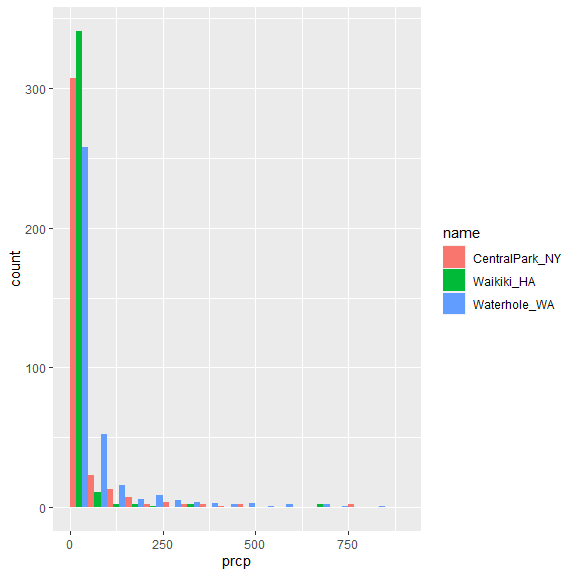
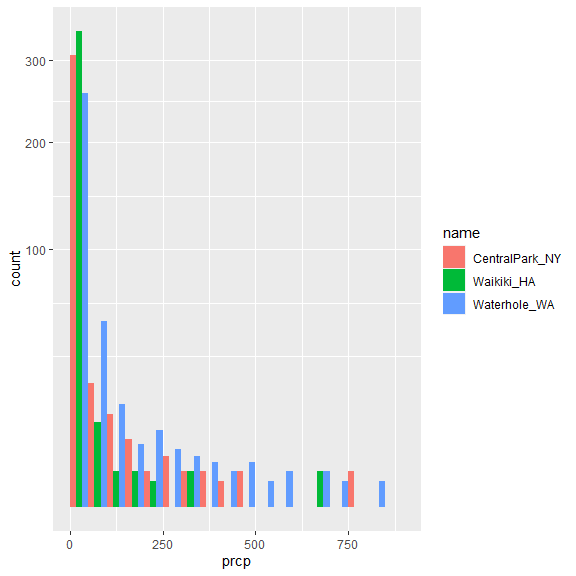
make plots more readable

diff --git a/visualization.md b/visualization.md
@@ -7,14 +7,14 @@ Wenzhao Wu
 library(tidyverse)
 ```
 
-    ## -- Attaching packages ----------- tidyverse 1.3.0 --
+    ## -- Attaching packages --------------------- tidyverse 1.3.0 --
 
     ## v ggplot2 3.3.2     v purrr   0.3.4
     ## v tibble  3.0.3     v dplyr   1.0.2
     ## v tidyr   1.1.2     v stringr 1.4.0
     ## v readr   1.3.1     v forcats 0.5.0
 
-    ## -- Conflicts -------------- tidyverse_conflicts() --
+    ## -- Conflicts ------------------------ tidyverse_conflicts() --
     ## x dplyr::filter() masks stats::filter()
     ## x dplyr::lag()    masks stats::lag()
 
@@ -302,7 +302,9 @@ ggplot(weather_df, aes(x = tmax, y = name)) +
 
 ``` r
 ggplot(weather_df, aes(x = prcp, fill = name)) + 
-  geom_histogram(position = "dodge", binwidth = 5, breaks = seq(0,945,50))
+  geom_histogram(position = "dodge", binwidth = 5, breaks = seq(0,945,50)) +
+  scale_y_continuous(
+    trans = "sqrt")
 ```
 
     ## Warning: Removed 3 rows containing non-finite values (stat_bin).
@@ -311,7 +313,9 @@ ggplot(weather_df, aes(x = prcp, fill = name)) +
 
 ``` r
 ggplot(weather_df, aes(x = prcp, fill = name)) + 
-  geom_density(alpha = .4, adjust = 0.4, color = "blue") 
+  geom_density(alpha = .4, adjust = 0.4, color = "yellow") +
+  scale_y_continuous(
+    trans = "sqrt")
 ```
 
     ## Warning: Removed 3 rows containing non-finite values (stat_density).
@@ -320,7 +324,9 @@ ggplot(weather_df, aes(x = prcp, fill = name)) +
 
 ``` r
 ggplot(weather_df, aes(x = name, y = prcp)) + 
-  geom_boxplot(outlier.shape = 5, outlier.size = 1)
+  geom_boxplot(outlier.shape = 5, outlier.size = 1) +
+  scale_y_continuous(
+    trans = "sqrt")
 ```
 
     ## Warning: Removed 3 rows containing non-finite values (stat_boxplot).
@@ -330,7 +336,9 @@ ggplot(weather_df, aes(x = name, y = prcp)) +
 ``` r
 ggplot(weather_df, aes(x = name, y = prcp)) + 
   geom_violin(aes(fill = name), alpha = .5) + 
-  stat_summary(fun = "median", color = "blue")
+  stat_summary(fun = "median", color = "blue") +
+  scale_y_continuous(
+    trans = "sqrt")
 ```
 
     ## Warning: Removed 3 rows containing non-finite values (stat_ydensity).
